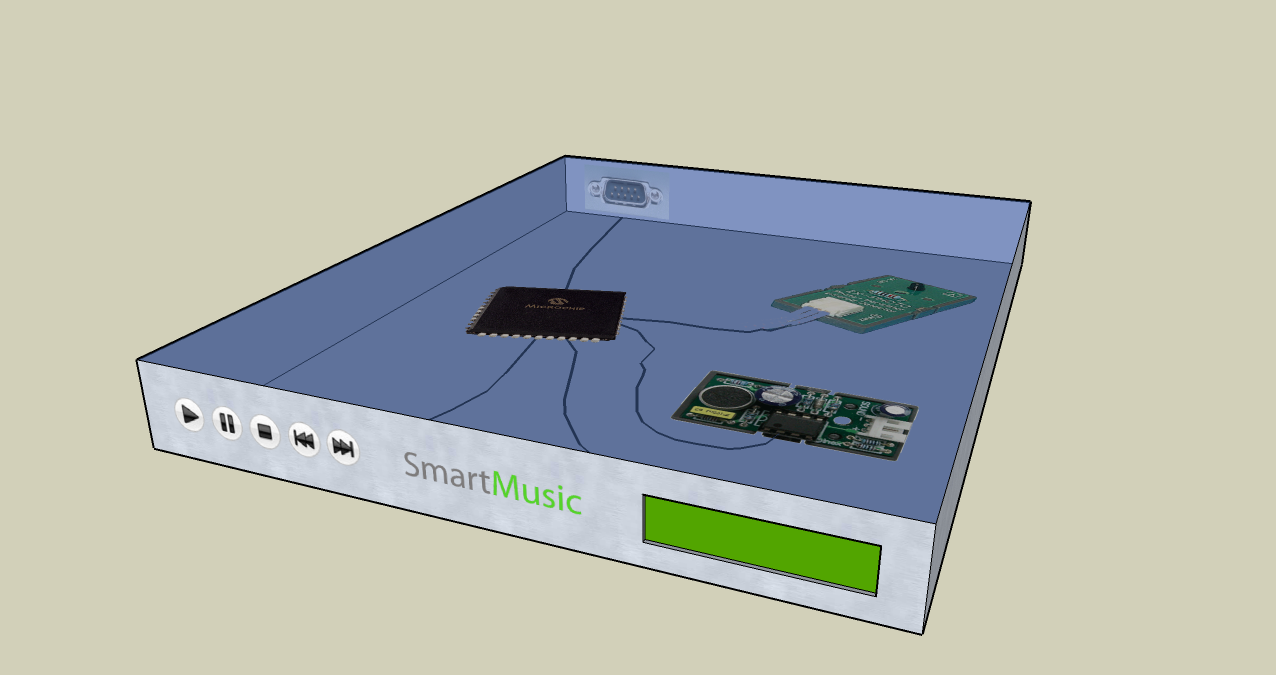
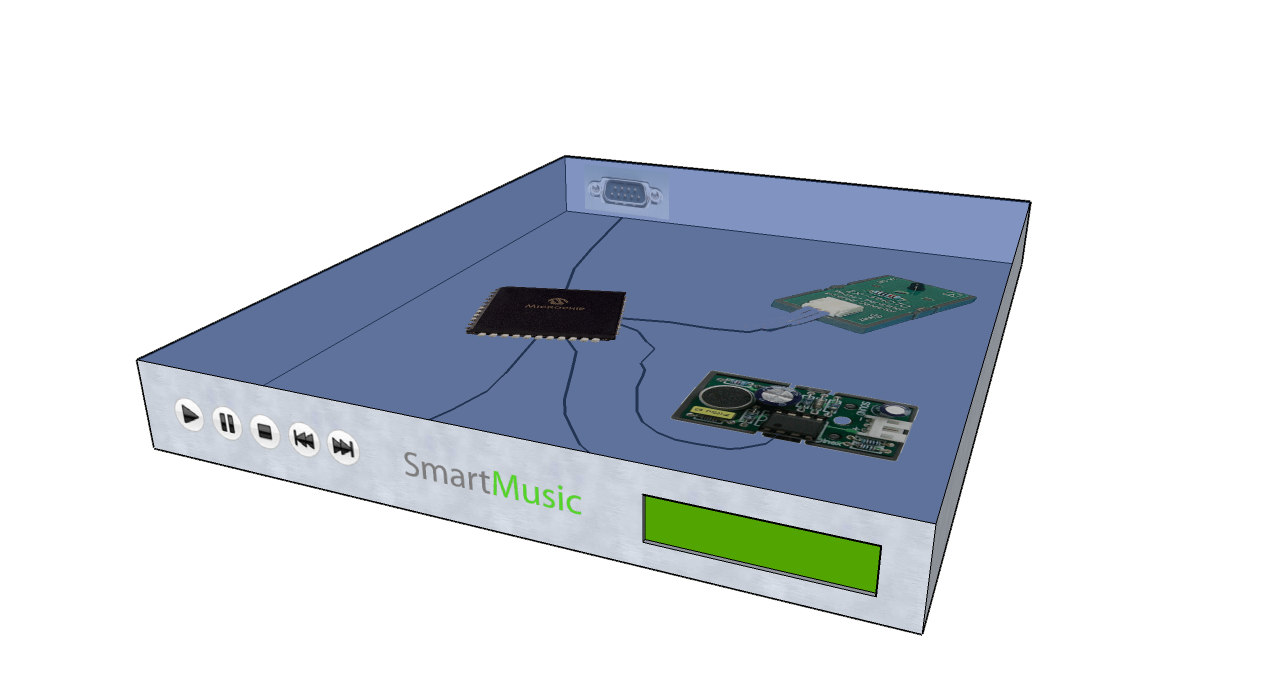
Actualizada presentación -Se agrega un Diagrama y un Modelo3D

diff --git a/Documentos/Presentacion 1.tex b/Documentos/Presentacion 1.tex
@@ -79,6 +79,37 @@
 	\end{itemize}
 \end{frame}
 %-----------------------------------------------
+\section{Diagrama}
+%-----------------------------------------------
+\begin{frame}
+\frametitle{Diagrama}
+	\begin{table}[h]
+		
+\begin{figure}[htbp]
+	\centering
+		\includegraphics[width=0.70\textwidth]{imagenes/Idea.png}
+	\label{fig:Diagrama}
+\end{figure}
+
+	\end{table}
+\end{frame}
+%-----------------------------------------------
+\section{Modelo 3D}
+%-----------------------------------------------
+\begin{frame}
+\frametitle{Modelo 3D}
+	\begin{table}[h]
+		
+\begin{figure}[htbp]
+	\centering
+		\includegraphics[width=0.99\textwidth]{imagenes/Modelo3D.png}
+	\label{fig:Modelo3D}
+\end{figure}
+
+	\end{table}
+\end{frame}
+
+%-----------------------------------------------
 \section{Dispositivos a utilizar}
 %-----------------------------------------------
 \begin{frame}
@@ -100,6 +131,9 @@
 		\end{center}
 	\end{table}
 \end{frame}
+
+
+
 %-----------------------------------------------
 \end{document}
 %-----------------------------------------------
